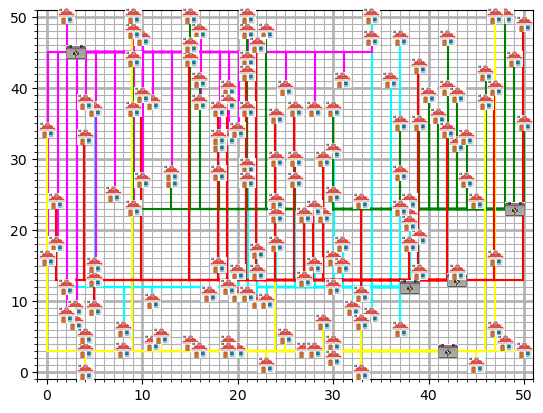
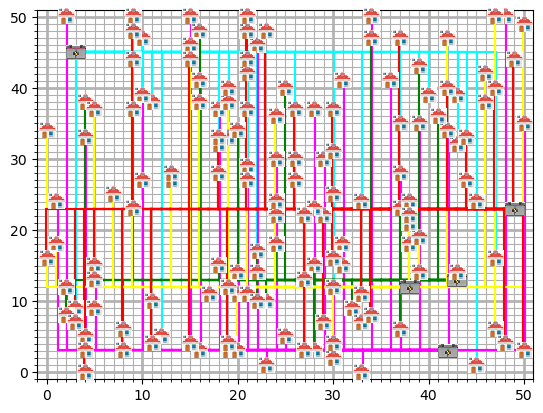
Test-programma geschreven om algoritmes met elkaar te kunnen vergelijken, verder aantal veranderingen gemaakt in de opbouw van de code

Changed region(s): [[0.0589, 0.0581, 0.9724, 0.8717], [0.3241, 0.0581, 0.3536, 0.0872], [0.1768, 0.8426, 0.2063, 0.8717]]

diff --git a/algorithms/randomize_dist_cap.py b/algorithms/randomize_dist_cap.py
@@ -1,18 +1,9 @@
-# Importeer shuffle
-from random import shuffle
-
 # Todo: Upper en lower bound definieren
-
-def randomize_objects(huizen, batterijen):
-    """
-    Schud de batterijen en huizen in de grid, om de volgorde te randomizen
-    """
-    shuffle(huizen)
-    shuffle(batterijen)
+from .randomize import randomize_objects
 
 def find_battery(batterijen, huis):
     """
-    Zoekt het dichtstbijzijndste batterij voor een gegeven huis
+    Zoekt het dichtstbijzijndste batterij voor een gegeven huis, waarbij de output in de resterende capaciteit past
     """
     optimale_index = 0
     min_afstand = 100
@@ -36,7 +27,7 @@ def find_battery(batterijen, huis):
 
 def dist_cap_algorithm(grid):
     """
-    Algoritme die 'random' de huizen aan de zo dichtbijzijnste batterij aansluit
+    Algoritme die 'random' de huizen aan de zo dichtbijzijnste batterij aansluit, waarbij de output in de capaciteit past
     """
     huizen = grid.get_huizen()
     batterijen = grid.get_batterijen()
@@ -45,29 +36,4 @@ def dist_cap_algorithm(grid):
 
     for huis in huizen:
         batterij = find_battery(batterijen, huis)
-
-        distance_y = int(batterij.get_locatie()[1]) - int(huis.get_locatie()[1])
-        distance_x = int(batterij.get_locatie()[0]) - int(huis.get_locatie()[0])
-        huis_y = int(huis.get_locatie()[1])
-        huis_x = int(huis.get_locatie()[0])
-        batterij_y = int(batterij.get_locatie()[1])
-
-        if distance_y > 0:
-
-            for movement in range(abs(distance_y)):
-                huis.set_kabels((huis_x, huis_y + movement))
-        else:
-
-            for movement in range(abs(distance_y)):
-                huis.set_kabels((huis_x, huis_y - movement))
-
-        if distance_x > 0:
-
-            for movement in range(abs(distance_x) + 1):
-                huis.set_kabels((huis_x + movement, batterij_y))
-        else:
-
-            for movement in range(abs(distance_x) + 1):
-                huis.set_kabels((huis_x - movement, batterij_y))
-
-        batterij.set_huis(huis)
+        batterij.lay_cable(huis)

diff --git a/test.py b/test.py
@@ -1,0 +1,65 @@
+# Importeer libraries
+import sys
+import time
+
+# Importeer grid, algoritmes en visualisatie
+from models.Grid import Grid
+from algorithms.randomize_dist_cap import dist_cap_algorithm
+from algorithms.randomize import rand_algorithm, rand_one_to_one_algorithm
+
+# Main functie
+def main():
+
+    # Moet argument wijk en pogingen meegeven
+    if len(sys.argv) != 4:
+        print("Usage: python main.py <wijk_nummer> <algorithm> <pogingen>")
+        exit(1)
+
+    wijk = str(sys.argv[1])
+
+    # Argument moet 1, 2 of 3 zijn (wijken)
+    if wijk not in ['1', '2', '3']:
+        print("No such wijk!")
+        exit(1)
+
+    try:
+        pogingen = int(sys.argv[3])
+
+    except:
+        print("You have to give an integer")
+        exit(1)
+
+    sys_algorithm = sys.argv[2]
+
+    if sys_algorithm not in ['1', '2', '3']:
+        print("No such algorithm!")
+        exit(1)
+
+    algorithms = {'1': dist_cap_algorithm, '2': rand_one_to_one_algorithm, '3': rand_algorithm}
+    algorithm = algorithms[sys_algorithm]
+
+    # Algoritme run-time test om de slechtste kosten en run-time in x pogingen te vinden #
+
+    # Base-line worst-case, best-case
+    slechtste_prijs = 0
+    beste_prijs = 1000000
+
+    print("Running algorithm, please wait...")
+    start_time = time.time()
+    for poging in range(pogingen):
+        grid = Grid(wijk, f"data/wijk{wijk}_huizen.csv", f"data/wijk{wijk}_batterijen.csv")
+        algorithm(grid)
+        eind_prijs = grid.get_totale_prijs()
+
+        if eind_prijs > slechtste_prijs:
+            slechtste_prijs = eind_prijs
+
+        if eind_prijs < beste_prijs:
+            beste_prijs = eind_prijs
+
+    print(f"Highest cost found: {slechtste_prijs}")
+    print(f"Lowest cost found: {beste_prijs}")
+    print("--- %s seconds runtime ---" % (time.time() - start_time))
+
+if __name__=="__main__":
+    main()

diff --git a/main.py b/main.py
@@ -1,18 +1,18 @@
 # Importeer libraries
 import sys
-import time
 
-# Importeer grid, algoritme en visualisatie
+# Importeer grid, algoritmes en visualisatie
 from models.Grid import Grid
 from algorithms.randomize_dist_cap import dist_cap_algorithm
+from algorithms.randomize import rand_algorithm, rand_one_to_one_algorithm
 from visualisation.plot_grid import draw
 
 # Main functie
 def main():
 
     # Moet argument wijk meegeven
-    if len(sys.argv) < 2 or len(sys.argv) > 3:
-        print("Usage: python main.py <wijk_nummer> <pogingen>")
+    if len(sys.argv) != 2:
+        print("Usage: python main.py <wijk_nummer>")
         exit(1)
 
     wijk = str(sys.argv[1])
@@ -22,16 +22,6 @@ def main():
         print("No such wijk!")
         exit(1)
 
-    # if len(sys.argv) > 2:
-    #     try:
-    #         pogingen = int(sys.argv[2])
-    #
-    #     except:
-    #         print("You have to give an integer")
-    #         exit(1)
-    # else:
-    #     pogingen = 1
-
     grid = Grid(wijk, f"data/wijk{wijk}_huizen.csv", f"data/wijk{wijk}_batterijen.csv")
 
     # Voer algoritme op grid uit
@@ -39,22 +29,6 @@ def main():
 
     # Teken grid
     draw(grid)
-
-    # Algoritme run-time test om de beste kosten en run-time in 10k pogingen te vinden
-    # beste_prijs = 100000
-    #
-    # print("Running algorithm, please wait...")
-    # start_time = time.time()
-    # for poging in range(pogingen):
-    #     grid = Grid(wijk, f"data/wijk{wijk}_huizen.csv", f"data/wijk{wijk}_batterijen.csv")
-    #     lay_cables(grid)
-    #     eind_prijs = grid.get_totale_prijs()
-    #
-    #     if eind_prijs < beste_prijs:
-    #         beste_prijs = eind_prijs
-    #
-    # print(f"Lowest cost found: {beste_prijs}")
-    # print("--- %s seconds runtime ---" % (time.time() - start_time))
 
 if __name__=="__main__":
     main()

diff --git a/models/Batterij.py b/models/Batterij.py
@@ -41,6 +41,33 @@ class Batterij:
 
         return totale_prijs
 
+    def lay_cable(self, huis):
+        distance_y = int(self.__locatie[1]) - int(huis.get_locatie()[1])
+        distance_x = int(self.__locatie[0]) - int(huis.get_locatie()[0])
+        huis_y = int(huis.get_locatie()[1])
+        huis_x = int(huis.get_locatie()[0])
+        batterij_y = int(self.__locatie[1])
+
+        if distance_y > 0:
+
+            for movement in range(abs(distance_y)):
+                huis.set_kabels((huis_x, huis_y + movement))
+        else:
+
+            for movement in range(abs(distance_y)):
+                huis.set_kabels((huis_x, huis_y - movement))
+
+        if distance_x > 0:
+
+            for movement in range(abs(distance_x) + 1):
+                huis.set_kabels((huis_x + movement, batterij_y))
+        else:
+
+            for movement in range(abs(distance_x) + 1):
+                huis.set_kabels((huis_x - movement, batterij_y))
+
+        self.set_huis(huis)
+
     # toString()
     def __str__(self):
         return f'Locatie: {self.__locatie}, Capaciteit: {self.__capaciteit}, Huizen: {self.__huizen}, Resterend: {self.get_resterend()}'

diff --git a/algorithms/randomize.py b/algorithms/randomize.py
@@ -1,0 +1,36 @@
+# Importeer shuffle
+from random import shuffle, choice
+
+def randomize_objects(huizen, batterijen):
+    """
+    Schud de batterijen en huizen in de grid, om de volgorde te randomizen
+    """
+    shuffle(huizen)
+    shuffle(batterijen)
+
+def rand_algorithm(grid):
+    """
+    Algoritme die 'random' de huizen aan een batterij aansluit
+    """
+    huizen = grid.get_huizen()
+    batterijen = grid.get_batterijen()
+    randomize_objects(huizen, batterijen)
+
+    # Sluit alles random aan tot alle huizen aangesloten zijn
+    while grid.is_everything_connected() is not True:
+        huis = choice(huizen)
+        batterij = choice(batterijen)
+        batterij.lay_cable(huis)
+
+def rand_one_to_one_algorithm(grid):
+    """
+    Algoritme die 'random' de huizen één op één aan een batterij aansluit
+    """
+    huizen = grid.get_huizen()
+    batterijen = grid.get_batterijen()
+
+    randomize_objects(huizen, batterijen)
+
+    for huis in huizen:
+        batterij = choice(batterijen)
+        batterij.lay_cable(huis)

diff --git a/models/Grid.py b/models/Grid.py
@@ -54,3 +54,15 @@ class Grid:
 
     def get_huizen(self):
         return self.__huizen
+
+    def is_everything_connected(self):
+        connected = 0
+
+        for batterij in self.__batterijen:
+            connected += len(batterij.get_huizen())
+
+        return connected == len(self.__huizen)
+
+    def __str__(self):
+        # toString()
+        return f"Grid voor de wijk: {self.__wijk}, Huizen: {self.__huizen}, Batterijen: {self.__batterijen}"
